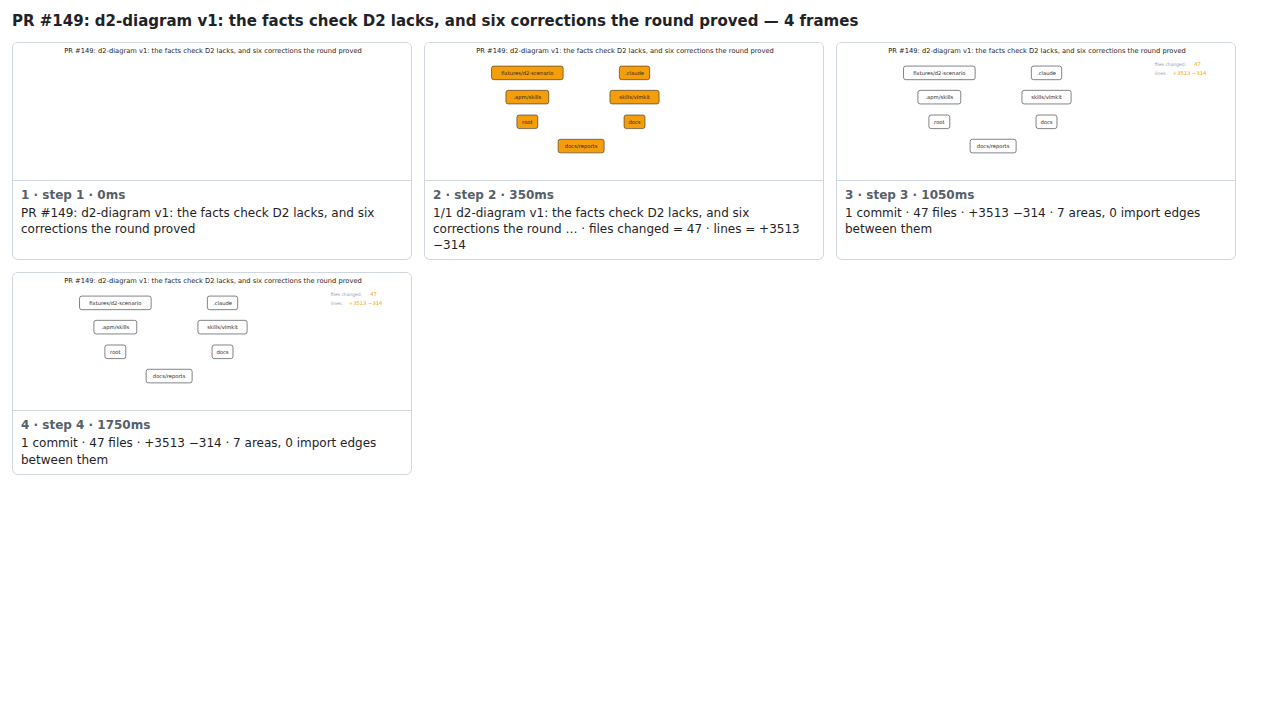
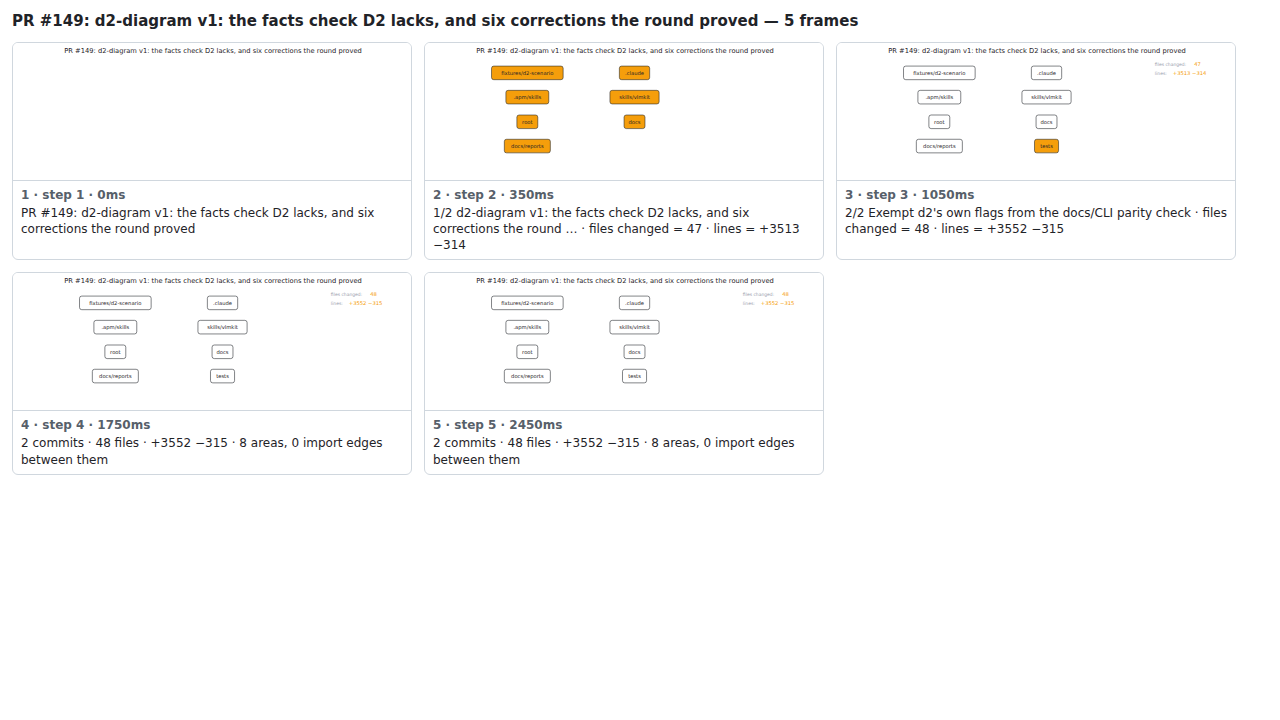
PR #149 @ e7aa847

diff --git a/149/change-map.md b/149/change-map.md
@@ -7,11 +7,12 @@
 ![steps](./change-map.sheet.png)
 
 ```
-PR #149: d2-diagram v1: the facts check D2 lacks, and six corrections the round proved — 4 steps, 1960ms, 13 nodes
+PR #149: d2-diagram v1: the facts check D2 lacks, and six corrections the round proved — 5 steps, 2660ms, 14 nodes
  1. [    0ms] PR #149: d2-diagram v1: the facts check D2 lacks, and six corrections the round proved
- 2. [  350ms] 1/1 d2-diagram v1: the facts check D2 lacks, and six corrections the round … · files changed = 47 · lines = +3513 −314
- 3. [ 1050ms] 1 commit · 47 files · +3513 −314 · 7 areas, 0 import edges between them
- 4. [ 1750ms] (end)
+ 2. [  350ms] 1/2 d2-diagram v1: the facts check D2 lacks, and six corrections the round … · files changed = 47 · lines = +3513 −314
+ 3. [ 1050ms] 2/2 Exempt d2's own flags from the docs/CLI parity check · files changed = 48 · lines = +3552 −315
+ 4. [ 1750ms] 2 commits · 48 files · +3552 −315 · 8 areas, 0 import edges between them
+ 5. [ 2450ms] (end)
 ```
 
 </details>
